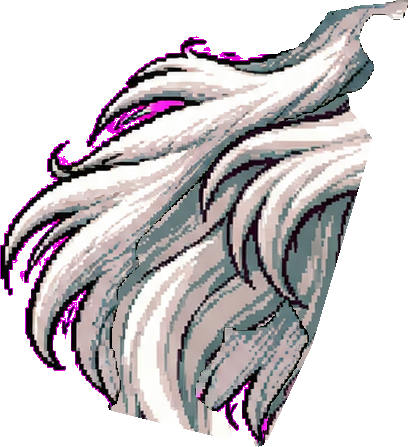
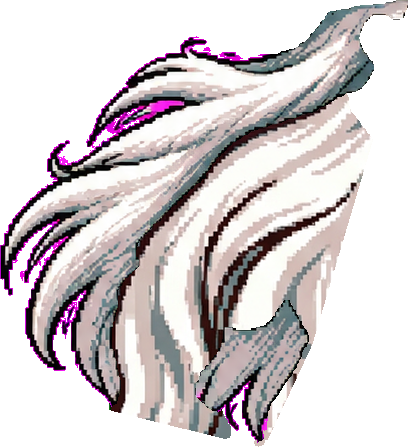
Detect and repair limbs tucked behind the body
A new repair-detection rule: an upper arm or thigh whose visible bone is
under 90% of its expected length (its twin limb, or 85% of its forearm) has
its root hidden behind a part drawn in front. The hidden part is a limb-wide
band along the bone up to the expected root, repaired even inside its joint
circle and even when small, since a moving limb uncovers it first.

The magician's rear upper arm (hidden behind his beard) and far thigh (under
the shorts) are now completed; run continued in place and re-exported.

Changed region(s): [[0.2647, 0.2036, 0.9118, 0.9888], [0.6471, 0.8143, 0.7353, 0.9888], [0.6176, 0.9888, 0.6471, 1.0]]

diff --git a/tools/detect_part_repairs.py b/tools/detect_part_repairs.py
@@ -80,6 +80,58 @@ def _hull(mask: np.ndarray) -> np.ndarray:
     return hull.astype(bool)
 
 
+# A limb whose visible bone is shorter than this share of its expected length
+# has its root hidden behind a part drawn in front of it.
+TUCKED_LENGTH_SHARE = 0.9
+TUCKED_CHAINS = {"upper_arm": ("shoulder", "elbow", "forearm_hand"), "thigh": ("hip", "knee", None)}
+
+
+def _capsule(shape: tuple[int, int], start: np.ndarray, end: np.ndarray, radius: float) -> np.ndarray:
+    yy, xx = np.mgrid[0:shape[0], 0:shape[1]]
+    points = np.stack((xx.ravel(), yy.ravel()), axis=1).astype(np.float64)
+    direction = end - start
+    t = np.clip(((points - start) @ direction) / max(1e-6, float(direction @ direction)), 0.0, 1.0)
+    distance = np.linalg.norm(points - (start + t[:, None] * direction), axis=1)
+    return (distance <= radius).reshape(shape)
+
+
+def _tucked_limb(name: str, own: np.ndarray, masks: dict[str, np.ndarray], front: list[str],
+                 joints: dict[str, Any]) -> dict[str, Any] | None:
+    """An upper arm or thigh much shorter than its twin is tucked behind a front part.
+
+    The hidden part is a limb-wide band along the bone, from the visible root
+    up to where the root would be at the expected length.
+    """
+    side, _, kind = name.partition("_")
+    if side not in ("near", "far") or kind not in TUCKED_CHAINS:
+        return None
+    root_joint, end_joint, next_part = TUCKED_CHAINS[kind]
+    twin = ("far" if side == "near" else "near")
+    center = {key: np.array(value["center"], dtype=np.float64) for key, value in joints.items()}
+    root, end = center.get(f"{side}_{root_joint}"), center.get(f"{side}_{end_joint}")
+    if root is None or end is None:
+        return None
+    visible = float(np.linalg.norm(root - end))
+    expected = [float(np.linalg.norm(center[f"{twin}_{root_joint}"] - center[f"{twin}_{end_joint}"]))] \
+        if f"{twin}_{root_joint}" in center and f"{twin}_{end_joint}" in center else []
+    if next_part and masks.get(f"{side}_{next_part}") is not None and masks[f"{side}_{next_part}"].any():
+        ys, xs = np.nonzero(masks[f"{side}_{next_part}"])
+        reach = np.linalg.norm(np.stack((xs, ys), axis=1) - end, axis=1)
+        expected.append(0.85 * float(np.quantile(reach, 0.9)))
+    if not expected or visible <= 0 or visible >= TUCKED_LENGTH_SHARE * max(expected):
+        return None
+    target = end + (root - end) / visible * max(expected)
+    radius = float(cv2.distanceTransform(own.astype(np.uint8), cv2.DIST_L2, 3).max())
+    front_union = np.any([masks[other] for other in front], axis=0) if front else np.zeros_like(own)
+    fill = _capsule(own.shape, target, root, radius) & front_union & ~own
+    if int(fill.sum()) < MIN_HOLE_PX:
+        return None
+    behind = sorted(other for other in front if (masks[other] & fill).any())
+    return {"fill": fill, "behind": behind,
+            "finding": f"tucked behind {', '.join(behind)}: visible bone {visible:.0f} px of an expected "
+                       f"{max(expected):.0f} px"}
+
+
 def detect(analysis: dict[str, Any]) -> dict[str, Any]:
     from render_whole_character_poses import draw_order
     from whole_character_workflow import JOINTS
@@ -148,6 +200,10 @@ def detect(analysis: dict[str, Any]) -> dict[str, Any]:
             occluders.update(wraps)
             findings.append("wraps around " + ", ".join(
                 f"{other} ({share:.0%} of its outline touches this part)" for other, share in wraps.items()))
+        tucked = _tucked_limb(name, own, masks, front, analysis.get("joints", {}))
+        if tucked is not None:
+            occluders.update(tucked["behind"])
+            findings.append(tucked["finding"])
         if not findings:
             continue
         hull = _hull(own)
@@ -164,7 +220,15 @@ def detect(analysis: dict[str, Any]) -> dict[str, Any]:
             fill |= region
             covered_by[other] = int(region.sum())
         fill &= ~covered_by_overlaps
-        minimum_fill = max(MIN_FILL_PX, int(area * MIN_FILL_SHARE))
+        if tucked is not None:
+            # The hidden top of a tucked limb is repaired even inside its joint
+            # circle: the overlap there carries the neighbor's art, not the limb's.
+            fill |= tucked["fill"]
+            for other in tucked["behind"]:
+                covered_by[other] = covered_by.get(other, 0) + int((tucked["fill"] & masks[other]).sum())
+        # A tucked limb's hidden root is what a moving limb uncovers first, so it
+        # is worth repairing even when small.
+        minimum_fill = MIN_HOLE_PX if tucked is not None else max(MIN_FILL_PX, int(area * MIN_FILL_SHARE))
         if int(fill.sum()) < minimum_fill:
             continue
         results[name] = {"reason": "; ".join(findings), "occluders": sorted(occluders),

diff --git a/tests/test_whole_character_workflow.py b/tests/test_whole_character_workflow.py
@@ -194,6 +194,31 @@ class WholeCharacterWorkflowTests(unittest.TestCase):
             self.assertNotIn("near_thigh", found)
             self.assertNotIn("head_neck", found)
 
+    def test_a_limb_much_shorter_than_its_twin_is_tucked_behind_the_part_in_front(self) -> None:
+        with tempfile.TemporaryDirectory() as temporary:
+            folder = Path(temporary)
+            canvas = np.zeros((220, 200), dtype=np.int8)
+            masks = {name: np.zeros((220, 200), dtype=bool) for name in ("torso_pelvis", "near_upper_arm", "far_upper_arm")}
+            masks["torso_pelvis"][20:200, 60:128] = True
+            masks["torso_pelvis"][20:90, 128:170] = True   # the torso covers the far arm's top
+            masks["near_upper_arm"][40:140, 30:58] = True  # 100 px, fully visible
+            masks["far_upper_arm"][90:140, 142:170] = True  # 50 px visible below the torso
+            parts = {}
+            for name, mask in masks.items():
+                ys, xs = np.nonzero(mask)
+                crop = np.zeros((ys.max() - ys.min() + 1, xs.max() - xs.min() + 1, 4), dtype=np.uint8)
+                crop[mask[ys.min():ys.max() + 1, xs.min():xs.max() + 1]] = (*PART_COLOR, 255)
+                Image.fromarray(crop, mode="RGBA").save(folder / f"{name}.png")
+                parts[name] = {"status": "EXTRACTED", "image": str(folder / f"{name}.png"),
+                               "crop_origin": [int(xs.min()), int(ys.min())]}
+            joints = {name: {"center": center} for name, center in {
+                "near_shoulder": [44, 40], "near_elbow": [44, 140],
+                "far_shoulder": [156, 90], "far_elbow": [156, 140]}.items()}
+            found = detect({"canvas": [200, 220], "parts": parts, "joints": joints})
+            self.assertIn("far_upper_arm", found)
+            self.assertIn("tucked behind torso_pelvis", found["far_upper_arm"]["reason"])
+            self.assertNotIn("near_upper_arm", found)
+
     def test_repair_keeps_original_pixels_and_fills_only_marked_area(self) -> None:
         with tempfile.TemporaryDirectory() as temporary:
             folder = Path(temporary)
